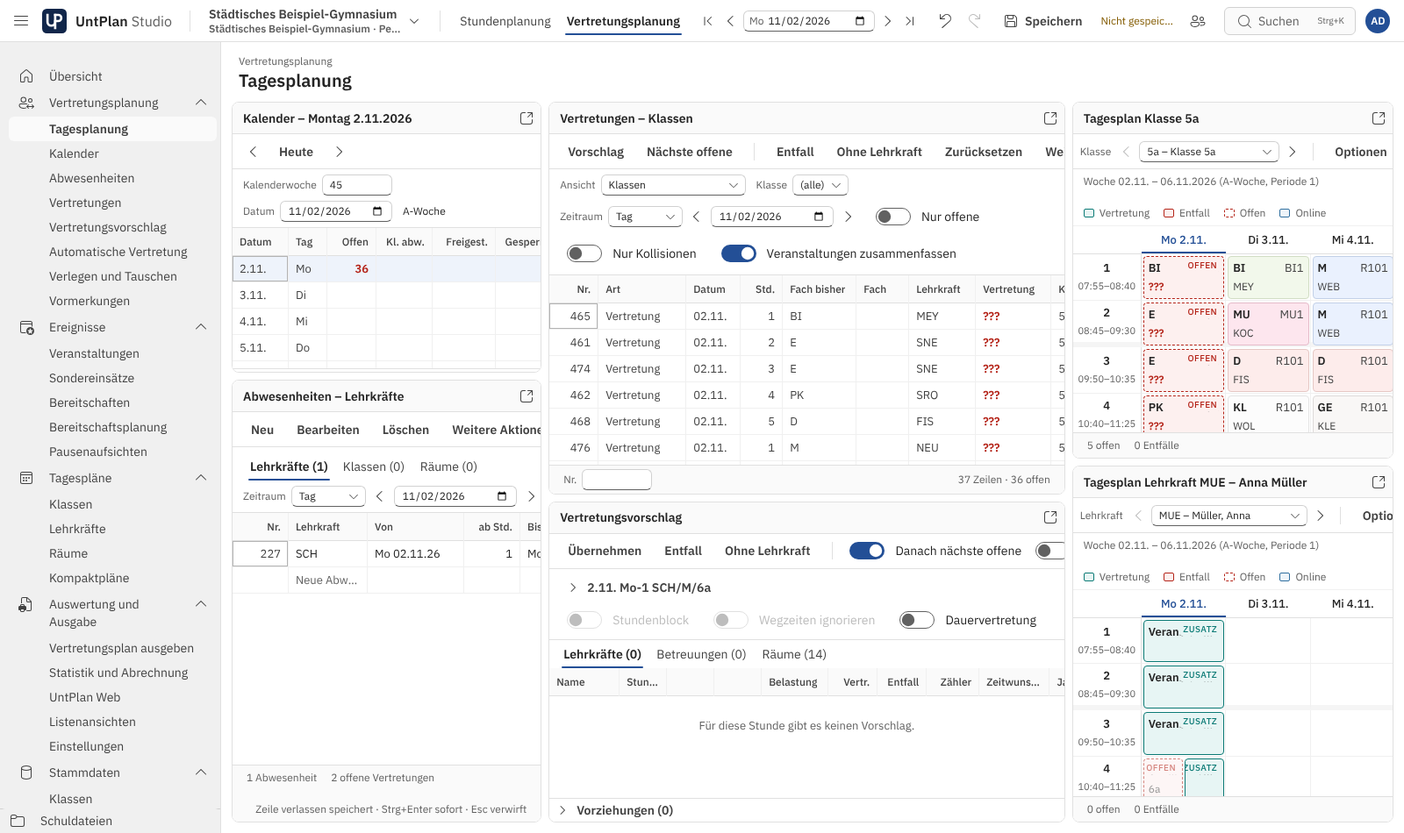
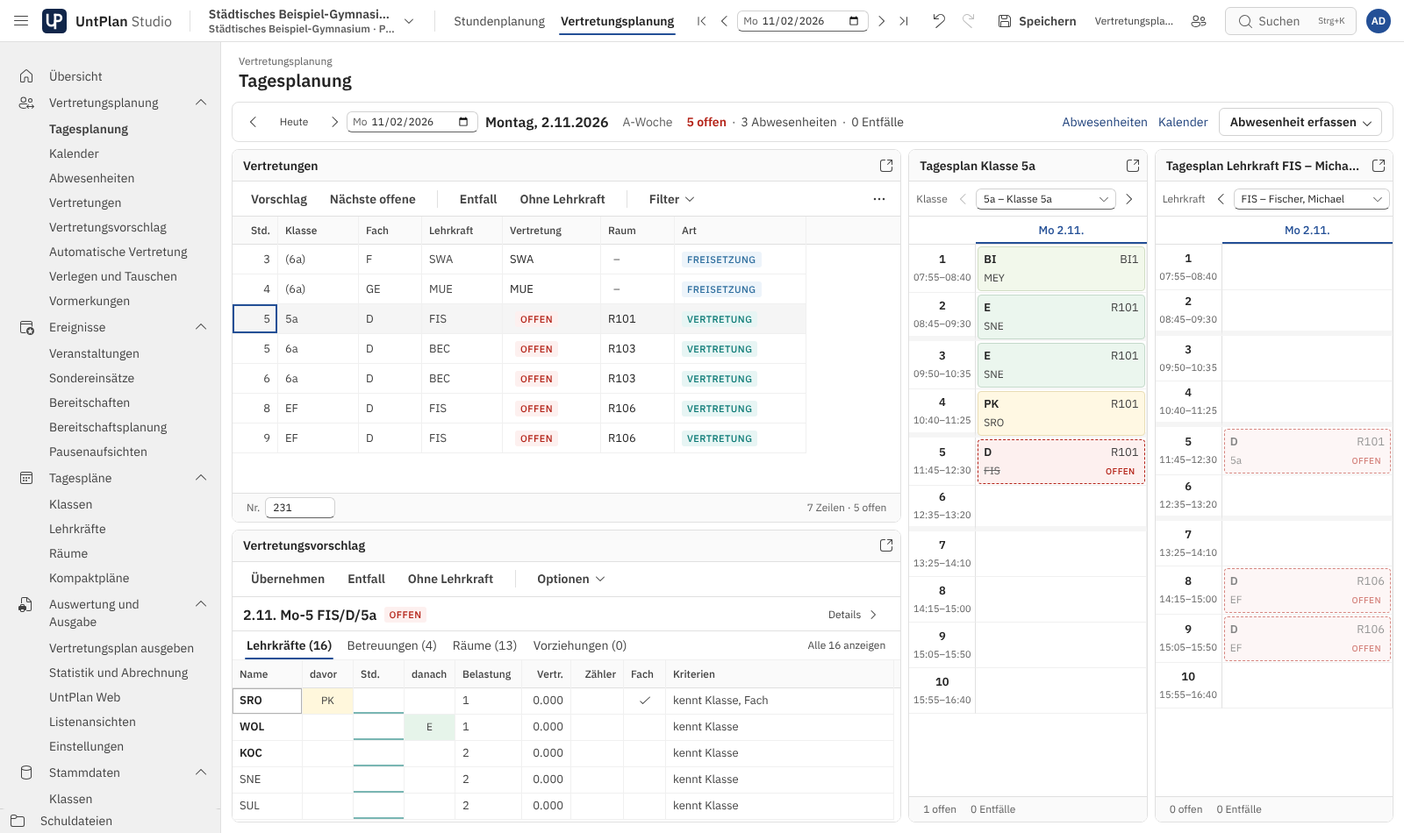
Zwischenstand: Tagesplanung und Web-Stundenplan in Arbeit [skip ci]
Claude-Session: https://claude.ai/code/session_01Qh4Tuihm3YFN8v1UQgn9UW

diff --git a/web/client/src/components/plan/Kachel.tsx b/web/client/src/components/plan/Kachel.tsx
@@ -8,8 +8,8 @@ import LinkRounded from '@mui/icons-material/LinkRounded';
 import EditNoteRounded from '@mui/icons-material/EditNoteRounded';
 import InfoOutlined from '@mui/icons-material/InfoOutlined';
 import type { Karte } from '../../api/types';
-import { artVon, gueltigeFarbe, infoText, istEntfall, istOnline, kachelZeilen, kopfRaeume, plaketten, sichererLink, abwesendSet, statusText, titelText, type Typ, type Plakette } from './logik';
-import { WerteListe, wertText } from './Werte';
+import { artVon, gueltigeFarbe, infoText, istEntfall, istOnline, kachelZeilen, kopfRaeume, plaketten, sichererLink, abwesendSet, statusText, titelText, KACHEL_PLAKETTEN, type Typ, type Plakette } from './logik';
+import { Kuerzel, WerteListe, wertText } from './Werte';
 
 /** Statusbezeichnung: 10–11 px Großbuchstaben in der Statusfarbe, ohne Fläche (keine Pillen). */
 export function PlaketteChip({ p, klein = false }: { p: Plakette; klein?: boolean }) {
@@ -31,19 +31,19 @@ export function FachQuadrat({ farbe, groesse = 8, sx }: { farbe: string | null |
 export function kachelStil(k: Karte, typ: Typ, t: Theme): CSSProperties & Record<string, unknown> {
   const art = artVon(k, typ);
   const papier = t.palette.background.paper;
-  const linie = t.palette.divider;
-  const basis = { backgroundColor: papier, border: `1px solid ${linie}` };
+  const linie = t.palette.kachel.rand;
+  const basis = { backgroundColor: t.palette.kachel.flaeche, border: `1px solid ${linie}` };
   const s = t.palette.status;
   switch (art) {
     case 'entfall': return {
-      backgroundColor: papier, backgroundImage: `repeating-linear-gradient(135deg, ${alpha(s.entfall.main, 0.07)} 0 1px, transparent 1px 6px)`,
-      border: `1px solid ${alpha(s.entfall.main, 0.32)}`, color: t.palette.text.secondary,
+      backgroundColor: papier, backgroundImage: `repeating-linear-gradient(135deg, ${alpha(s.entfall.main, 0.09)} 0 1px, transparent 1px 6px)`,
+      border: `1px solid ${alpha(s.entfall.main, 0.45)}`, color: t.palette.text.secondary,
     };
-    case 'aenderung': return { ...basis, border: `1px solid ${alpha(s.aenderung.main, 0.55)}` };
-    case 'pruefung': return { ...basis, border: `1px solid ${alpha(s.pruefung.main, 0.55)}` };
-    case 'termin': return { ...basis, border: `1px dashed ${alpha(t.palette.text.secondary, 0.6)}` };
-    case 'abwesend': return { ...basis, border: `1px dashed ${alpha(t.palette.text.secondary, 0.6)}`, color: t.palette.text.secondary };
-    case 'buchung': return { ...basis, border: `1px dashed ${alpha(s.frei.main, 0.6)}` };
+    case 'aenderung': return { ...basis, backgroundColor: papier, border: `1px solid ${s.aenderung.main}` };
+    case 'pruefung': return { ...basis, backgroundColor: papier, border: `1px solid ${s.pruefung.main}` };
+    case 'termin': return { ...basis, backgroundColor: papier, border: `1px dashed ${alpha(t.palette.text.secondary, 0.7)}` };
+    case 'abwesend': return { ...basis, backgroundColor: papier, border: `1px dashed ${alpha(t.palette.text.secondary, 0.7)}`, color: t.palette.text.secondary };
+    case 'buchung': return { ...basis, backgroundColor: papier, border: `1px dashed ${s.frei.main}` };
     default: return basis;
   }
 }
@@ -88,11 +88,11 @@ export const Kachel = memo(function Kachel({ k, typ, hoehe = 64, onOpen, gedimmt
   const mittel = !kompakt && hoehe < 74;
   const zeilen = kachelZeilen(k, typ);
   const raeume = kopfRaeume(k, typ);
-  const pl = plaketten(k, typ);
+  const pl = plaketten(k, typ).filter(p => KACHEL_PLAKETTEN.has(p.text));
   const info = infoText(k);
   const online = istOnline(k, typ);
   const durch = entfall ? 'line-through' : 'none';
-  const titel = k.fach ? (k.fachAlt && !entfall ? <><Box component="s" sx={{ color: 'text.disabled', fontWeight: 400, mr: 0.5 }}>{k.fachAlt}</Box><Box component="span" sx={{ color: 'status.aenderung.main', textDecoration: 'underline', textDecorationThickness: '1px', textUnderlineOffset: '3px' }}>{k.fach}</Box></> : k.fach) : (k.text || k.art || '—');
+  const titel = k.fach ? (k.fachAlt && !entfall ? <Box component="span" sx={{ display: 'inline-flex', gap: '3px', alignItems: 'center' }}><Kuerzel art="alt" title={`bisher ${k.fachAlt}`}>{k.fachAlt}</Kuerzel><Kuerzel art="neu" title={`${k.fach} statt ${k.fachAlt}`}>{k.fach}</Kuerzel></Box> : k.fach) : (k.text || k.art || '—');
   const abw = abwesendSet(k);
   const symbole = (
     <>
@@ -117,7 +117,7 @@ export const Kachel = memo(function Kachel({ k, typ, hoehe = 64, onOpen, gedimmt
   );
   const hatSymbole = online || k.hausaufgabeFaellig || info.length > 0;
   const tasten = (e: KeyboardEvent) => { if (e.key === 'Enter' || e.key === ' ') { e.preventDefault(); onOpen?.(k); } };
-  const hover = art === 'entfall' ? {} : { backgroundColor: t.palette.background.default };
+  const hover = art === 'entfall' ? {} : { backgroundColor: t.palette.kachel.hover };
   return (
     <Tooltip title={<KachelInfo k={k} typ={typ} />} placement="right-start" enterDelay={450} enterNextDelay={300} disableInteractive
       slotProps={{ tooltip: { sx: { bgcolor: 'background.paper', color: 'text.primary', border: 1, borderColor: 'divider', boxShadow: '0 8px 24px rgba(21,26,33,.14)', p: 1.5, maxWidth: 360 } }, arrow: { sx: { color: 'background.paper', '&:before': { border: 1, borderColor: 'divider' } } } }}>
@@ -134,12 +134,13 @@ export const Kachel = memo(function Kachel({ k, typ, hoehe = 64, onOpen, gedimmt
           <Typography component="span" noWrap sx={{ fontWeight: 600, fontSize: gross ? 14 : 13, lineHeight: '17px', color: entfall ? 'status.entfall.main' : 'text.primary', textDecoration: durch, minWidth: 0, flex: '0 1 auto' }}>{titel}</Typography>
           {kompakt && zeilen[0] && (
             <Typography component="span" noWrap sx={{ fontSize: 12, color: 'text.secondary', textDecoration: durch, minWidth: 0 }}>
-              <WerteListe werte={zeilen[0].werte} entfall={entfall} mitAlt={false} abwesend={zeilen[0].art === 'klassen' ? abw : undefined} />
+              <WerteListe werte={zeilen[0].werte} entfall={entfall} mitAlt={false} abwesend={zeilen[0].art === 'klassen' ? abw : undefined} offen={k.status === 'offen' && zeilen[0].art === 'lehrer'} />
             </Typography>
           )}
           {raeume.length > 0 && (
             <Typography component="span" noWrap sx={{ ml: 'auto', fontSize: 12, fontWeight: 500, color: 'text.secondary', textDecoration: durch, flex: 'none', maxWidth: '55%', textAlign: 'right' }}>
-              <WerteListe werte={raeume} entfall={entfall} mitAlt={!kompakt} />
+              {!entfall && raeume.every(w => !w.alt && !w.neu) ? <Box component="span" sx={{ display: 'inline-flex', gap: '3px' }}>{raeume.map((w, i) => <Kuerzel key={i}>{w.k}</Kuerzel>)}</Box>
+                : <WerteListe werte={raeume} entfall={entfall} mitAlt={!kompakt} trenner=" " />}
             </Typography>
           )}
         </Stack>
@@ -147,7 +148,7 @@ export const Kachel = memo(function Kachel({ k, typ, hoehe = 64, onOpen, gedimmt
           <Box sx={{ flex: '0 1 auto', minHeight: 0, overflow: 'hidden', pl: k.fach ? '14px' : 0 }}>
             {(mittel ? zeilen.slice(0, 1) : zeilen).map((z, i) => (
               <Typography key={i} component="div" noWrap sx={{ fontSize: 12, lineHeight: '16px', color: z.art === 'mitklassen' ? 'text.disabled' : 'text.secondary', textDecoration: durch }}>
-                <WerteListe werte={z.werte} entfall={entfall} abwesend={z.art === 'klassen' ? abw : undefined} />
+                <WerteListe werte={z.werte} entfall={entfall} abwesend={z.art === 'klassen' ? abw : undefined} offen={k.status === 'offen' && z.art === 'lehrer'} />
               </Typography>
             ))}
           </Box>

diff --git a/web/client/src/components/plan/Werte.tsx b/web/client/src/components/plan/Werte.tsx
@@ -1,37 +1,65 @@
-// Darstellung der Werte einer Stunde (Klassen, Lehrkräfte, Räume): geänderter Wert petrol, ersetzter Wert durchgestrichen davor,
-// hinzugefügter Wert „+R105“, entfernter Wert durchgestrichen, offene Vertretung „???“, abwesende Klasse grau durchgestrichen.
+// Darstellung der Werte einer Stunde (Klassen, Lehrkräfte, Räume) mit Kürzel-Plaketten (Radius 3 px): unveränderte Werte als Text,
+// geänderter Wert als gefüllte Plakette in der Änderungsfarbe, ersetzter Wert davor als graue, durchgestrichene Plakette, hinzugefügter
+// Wert umrandet in der Änderungsfarbe, offene Vertretung als gestrichelte „?“-Plakette, abwesende Klasse grau durchgestrichen.
+// Die Bedeutung steht im Tooltip (title) und in der Legende – auf der Kachel stehen keine Statuswörter.
 import { Box } from '@mui/material';
+import type { ReactNode } from 'react';
 import type { Wert } from '../../api/types';
 import { KEIN_ELEMENT } from './logik';
 
-export function WertAnzeige({ w, entfall = false, mitAlt = true, weg = false, link }: { w: Wert; entfall?: boolean; mitAlt?: boolean; weg?: boolean; link?: (kurz: string) => string | null }) {
-  const a = (kurz: string, inhalt: React.ReactNode) => {
+export type KuerzelArt = 'normal' | 'neu' | 'alt' | 'plus' | 'offen';
+
+/** Kürzel als kleine Plakette (11 px, Radius 3 px). */
+export function Kuerzel({ art = 'normal', children, title }: { art?: KuerzelArt; children: ReactNode; title?: string }) {
+  const stil = {
+    normal: { border: '1px solid', borderColor: 'kachel.rand', color: 'text.secondary', bgcolor: 'background.paper' },
+    neu: { border: '1px solid', borderColor: 'status.aenderung.main', bgcolor: 'status.aenderung.main', color: '#fff' },
+    plus: { border: '1px solid', borderColor: 'status.aenderung.main', color: 'status.aenderung.main', bgcolor: 'background.paper' },
+    alt: { border: '1px solid', borderColor: 'kachel.rand', bgcolor: 'action.hover', color: 'text.disabled', textDecoration: 'line-through' },
+    offen: { border: '1px dashed', borderColor: 'status.aenderung.main', color: 'status.aenderung.main', bgcolor: 'background.paper', minWidth: 18, justifyContent: 'center' },
+  }[art];
+  return (
+    <Box component="span" title={title} sx={{ display: 'inline-flex', alignItems: 'center', height: 16, px: '4px', borderRadius: '3px', fontSize: 11, lineHeight: '14px', fontWeight: 600,
+      letterSpacing: '0.01em', whiteSpace: 'nowrap', verticalAlign: 'middle', boxSizing: 'border-box', fontVariantNumeric: 'tabular-nums', ...stil }}>{children}</Box>
+  );
+}
+
+export function WertAnzeige({ w, entfall = false, mitAlt = true, weg = false, link, offen = false }: {
+  w: Wert; entfall?: boolean; mitAlt?: boolean; weg?: boolean; link?: (kurz: string) => string | null; offen?: boolean;
+}) {
+  const a = (kurz: string, inhalt: ReactNode) => {
     const href = link && kurz && !KEIN_ELEMENT.test(kurz) ? link(kurz) : null;
-    return href ? <Box component="a" href={href} onClick={e => e.stopPropagation()} sx={{ color: 'inherit', textDecorationColor: 'currentColor', textUnderlineOffset: 2, '&:hover': { color: 'primary.main' } }}>{inhalt}</Box> : inhalt;
+    return href ? <Box component="a" href={href} onClick={e => e.stopPropagation()} sx={{ color: 'inherit', textDecoration: 'none', '&:hover': { textDecoration: 'underline' } }}>{inhalt}</Box> : inhalt;
   };
+  const fragezeichen = (t: string) => <Kuerzel art="offen" title={t}>?</Kuerzel>;
   if (entfall) return <span>{w.alt || w.k}</span>;
-  if (weg) return <Box component="s" sx={{ color: 'text.disabled' }}>{w.k}</Box>;
-  if (w.alt && !w.k) return <Box component="s" sx={{ color: 'status.aenderung.main', fontWeight: 600 }}>{a(w.alt, w.alt)}</Box>;
-  if (!w.k && w.neu) return <Box component="span" sx={{ color: 'status.aenderung.main', fontWeight: 600 }}>???</Box>;
-  if (w.alt) return (
-    <Box component="span" sx={{ whiteSpace: 'nowrap' }}>
-      {mitAlt && <Box component="s" sx={{ color: 'text.disabled', fontWeight: 400, mr: 0.5 }}>{a(w.alt, w.alt)}</Box>}
-      <Box component="span" sx={{ color: 'status.aenderung.main', fontWeight: 600, textDecoration: 'underline', textDecorationThickness: '1px', textUnderlineOffset: '3px' }}>{a(w.k, w.k)}</Box>
+  if (weg) return <Box component="s" sx={{ color: 'text.disabled' }} title={`${w.k} abwesend`}>{w.k}</Box>;
+  if (w.alt && !w.k) return (
+    <Box component="span" sx={{ display: 'inline-flex', gap: '3px', alignItems: 'center' }}>
+      <Kuerzel art="alt" title={offen ? `${w.alt} – Vertretung offen` : `${w.alt} entfällt`}>{a(w.alt, w.alt)}</Kuerzel>
+      {offen && fragezeichen(`Vertretung für ${w.alt} offen`)}
     </Box>
   );
-  if (w.neu) return <Box component="span" sx={{ color: 'status.aenderung.main', fontWeight: 600 }}>+{a(w.k, w.k)}</Box>;
+  if (!w.k && w.neu) return fragezeichen('Vertretung offen');
+  if (w.alt) return (
+    <Box component="span" sx={{ display: 'inline-flex', gap: '3px', alignItems: 'center' }}>
+      {mitAlt && <Kuerzel art="alt" title={`bisher ${w.alt}`}>{a(w.alt, w.alt)}</Kuerzel>}
+      <Kuerzel art="neu" title={`${w.k} statt ${w.alt}`}>{a(w.k, w.k)}</Kuerzel>
+    </Box>
+  );
+  if (w.neu) return <Kuerzel art="plus" title={`${w.k} zusätzlich`}>{a(w.k, w.k)}</Kuerzel>;
   return <span>{a(w.k, w.k)}</span>;
 }
 
-export function WerteListe({ werte, entfall, mitAlt = true, abwesend, link, trenner = ', ' }: {
-  werte: Wert[]; entfall?: boolean; mitAlt?: boolean; abwesend?: Set<string>; link?: (kurz: string) => string | null; trenner?: string;
+export function WerteListe({ werte, entfall, mitAlt = true, abwesend, link, trenner = ', ', offen = false }: {
+  werte: Wert[]; entfall?: boolean; mitAlt?: boolean; abwesend?: Set<string>; link?: (kurz: string) => string | null; trenner?: string; offen?: boolean;
 }) {
   return (
     <>
       {werte.map((w, i) => (
         <span key={`${w.k}-${w.alt}-${i}`}>
           {i > 0 && trenner}
-          <WertAnzeige w={w} entfall={entfall} mitAlt={mitAlt} weg={!!abwesend?.has((w.k || '').toLowerCase())} link={link} />
+          <WertAnzeige w={w} entfall={entfall} mitAlt={mitAlt} weg={!!abwesend?.has((w.k || '').toLowerCase())} link={link} offen={offen} />
         </span>
       ))}
     </>

diff --git a/web/client/src/components/plan/logik.ts b/web/client/src/components/plan/logik.ts
@@ -44,17 +44,10 @@ export function statusText(k: Karte) {
   return STATUSTEXT[k.status] ?? '';
 }
 
-/** Kurzbezeichnung einer Änderung: was hat sich geändert (Lehrkraft → „Vertretung“, nur Raum → „Raum“, Fach → „Fach“). */
-export function aenderungsText(k: Karte) {
-  const g = (l: Wert[] | null | undefined) => (l || []).some(w => w.alt || w.neu);
-  if (g(k.lehrer)) return 'Vertretung';
-  if (k.fachAlt) return 'Fach';
-  if (g(k.raeume)) return 'Raum';
-  return 'Änderung';
-}
-
-/** Plaketten der Kachel: kurze Bezeichnung und Ton. */
+/** Plaketten einer Stunde: kurze Bezeichnung und Ton (die Kachel zeigt davon nur die nicht aus Farbe/Linie ablesbaren, siehe KACHEL_PLAKETTEN). */
 export interface Plakette { text: string; ton: 'entfall' | 'aenderung' | 'pruefung' | 'termin' | 'frei' | 'neutral'; hinweis?: string }
+/** Auf der Kachel als Wort gezeigt – alles andere (Entfall, Änderung, offen, vertreten …) liest man an Schraffur, Linie und Kürzel-Plaketten ab. */
+export const KACHEL_PLAKETTEN = new Set(['Prüfung', 'Termin', 'Buchung', 'Vorgemerkt', 'Verlegt', 'Verlegung']);
 export function plaketten(k: Karte, typ: Typ): Plakette[] {
   const p: Plakette[] = [];
   const verlegt = istVerlegung(k) && k.status !== 'klausur';
@@ -69,7 +62,6 @@ export function plaketten(k: Karte, typ: Typ): Plakette[] {
   else if (k.status === 'buchung') p.push({ text: 'Buchung', ton: 'frei' });
   else if (k.status === 'vorgemerkt') p.push({ text: 'Vorgemerkt', ton: 'neutral', hinweis: 'In UntPlanWeb beantragt, von UntPlan noch nicht übernommen' });
   else if (lehrerAbwesend(k, typ)) p.push({ text: 'Vertreten', ton: 'neutral' });
-  else if (!verlegt && k.status === 'geaendert') p.push({ text: aenderungsText(k), ton: 'aenderung' });
   if ((k.abwesendeKlassen || []).length && !istEntfall(k, typ)) p.push({ text: k.abwesendText || 'abwesend', ton: 'neutral', hinweis: `${k.abwesendeKlassen.join(', ')} ${k.abwesendText || 'abwesend'}` });
   return p;
 }

diff --git a/web/client/src/theme.ts b/web/client/src/theme.ts
@@ -15,14 +15,18 @@ export const farben = {
 } as const;
 
 export interface StatusFarbe { main: string; flaeche: string }
+/** Flächen des Stundenplans: Kachel, kräftigere Kachellinie, Kopf/Zeitspalte, Überfahren, Pausenband. */
+export interface KachelFarben { flaeche: string; rand: string; kopf: string; hover: string; pause: string }
 declare module '@mui/material/styles' {
   interface Palette {
     status: { entfall: StatusFarbe; aenderung: StatusFarbe; pruefung: StatusFarbe; termin: StatusFarbe; frei: StatusFarbe; ok: StatusFarbe };
     marine: typeof farben.marine;
+    kachel: KachelFarben;
   }
   interface PaletteOptions {
     status?: Palette['status'];
     marine?: typeof farben.marine;
+    kachel?: KachelFarben;
   }
 }
 
@@ -48,11 +52,12 @@ export const theme = createTheme({
         warning: { main: farben.pruefung },
         success: { main: farben.ok },
         info: { main: farben.frei },
-        background: { default: farben.schiefer[50], paper: '#ffffff' },
+        background: { default: '#eef1f4', paper: '#ffffff' },
         text: { primary: farben.schiefer[800], secondary: farben.schiefer[600], disabled: farben.schiefer[400] },
         divider: farben.schiefer[200],
         action: { hover: alpha(farben.schiefer[500], 0.08), selected: farben.marine[50] },
         status: status(false),
+        kachel: { flaeche: '#f6f8fa', rand: '#c9d1db', kopf: '#f6f8fa', hover: '#edf0f4', pause: '#eef1f4' },
         marine: farben.marine,
       },
     },
@@ -69,6 +74,7 @@ export const theme = createTheme({
         divider: '#2a323d',
         action: { hover: 'rgba(255,255,255,.06)', selected: '#17243a' },
         status: status(true),
+        kachel: { flaeche: '#1b212a', rand: '#3a4452', kopf: '#1a2028', hover: '#232a35', pause: '#11161c' },
         marine: farben.marine,
       },
     },

diff --git a/studio/client/src/module/vertretung/Vorschlag.tsx b/studio/client/src/module/vertretung/Vorschlag.tsx
@@ -22,7 +22,6 @@ const useStile = makeStyles({
   kopfZeile: { display: 'flex', alignItems: 'center', gap: '8px', minWidth: 0 },
   kopfText: { fontWeight: tokens.fontWeightSemibold, fontSize: tokens.fontSizeBase400, whiteSpace: 'nowrap', overflow: 'hidden', textOverflow: 'ellipsis' },
   mehr: { color: tokens.colorNeutralForeground3, fontSize: tokens.fontSizeBase200, whiteSpace: 'nowrap' },
-  klapp: { justifyContent: 'flex-start', fontWeight: tokens.fontWeightSemibold, padding: '2px 4px', minWidth: 0 },
   detailKnopf: { marginLeft: 'auto', minWidth: 0, flexShrink: 0 },
   details: { fontSize: tokens.fontSizeBase200, color: tokens.colorNeutralForeground2, padding: '2px 0 2px 0' },
   reiterZeile: { display: 'flex', alignItems: 'center', gap: '8px', padding: '0 8px', borderBottom: `1px solid ${tokens.colorNeutralStroke3}` },

diff --git a/design/DESIGN.md b/design/DESIGN.md
@@ -13,7 +13,8 @@ Gestaltung anderer Stundenplanprogramme.
   keine dunkle Seitenleiste mit Symbolspalte. Vorbild sind nüchterne Fachanwendungen (Verwaltung, Finanzen, ERP).
 * **Keine Effekte um der Effekte willen:** keine Farbverläufe, kein Glas/Blur, keine Emojis, keine Illustrationen,
   keine „Hero“-Flächen, keine verspielten Animationen. Übergänge höchstens 120 ms (Farbe/Deckkraft).
-* **Klare Kanten:** Radius 6 px (Steuerelemente, Karten), 4 px (Plaketten, Stundenkacheln), 8 px (Dialoge).
+* **Klare Kanten:** Radius 6 px (Steuerelemente), 8 px (Karten, Dialoge), 4 px (Rasterrahmen), 3 px (Plaketten,
+  Stundenkacheln). Keine Pillenform für Knöpfe, Felder oder Plaketten.
   1-px-Linien statt Schatten; Schatten nur für schwebende Ebenen (Menüs, Dialoge).
 * **Typografie trägt die Hierarchie**, nicht Farbe: IBM Plex Sans 400/500/600, Ziffern tabellarisch
   (`font-variant-numeric: tabular-nums`) in Tabellen, Zeiten und Rastern.
@@ -38,10 +39,10 @@ Grundwerte in `design/tokens.css` (Präfix `--up-`). Marke **Marine** `#234f96` 
 
 | Status | Farbe | Darstellung |
 |---|---|---|
-| Entfall | `--up-entfall` #b42318 | Kachel schraffiert (45°, 1 px, 8 % Deckkraft), Inhalt durchgestrichen, Plakette „Entfall“ |
-| Vertretung / Änderung / Raumwechsel | `--up-aenderung` #0b7a75 | 1,5-px-Rahmen in Petrol, geänderter Wert petrolfarben unterstrichen, alter Wert durchgestrichen in der Plakette |
-| Prüfung / Klausur | `--up-pruefung` #a15c07 | Plakette „Prüfung“, Fläche hell-bernstein |
-| Veranstaltung / Termin | `--up-termin` #5a4fb3 | Fläche hell-violett, gestrichelter Rahmen |
+| Entfall | `--up-entfall` #b42318 | Kachel fast weiß, fein schraffiert (45°, 1 px, 7 % Deckkraft), Fach rot und durchgestrichen, Plakette „Entfall“ |
+| Vertretung / Änderung / Raumwechsel | `--up-aenderung` #0b7a75 | 1-px-Linie in Petrol, geänderter Wert petrolfarben dünn unterstrichen, alter Wert grau durchgestrichen davor, Plakette „Vertretung“, „Raum“ bzw. „Fach“ |
+| Prüfung / Klausur | `--up-pruefung` #a15c07 | 1-px-Linie in Bernstein, Plakette „Prüfung“ |
+| Veranstaltung / Termin | `--up-termin` #5a4fb3 | weiße Kachel mit gestrichelter neutraler Linie, Plakette „Termin“ |
 | Ferien / unterrichtsfrei | `--up-frei` #2f6f9f | ganzflächig hellblau mit Name und Zeitraum |
 
 Dunkelmodus über `:root[data-thema="dunkel"]` bzw. `data-thema="auto"`; nur die Rollen-Variablen wechseln.
@@ -67,14 +68,26 @@ iOS verwendet die Systemschrift (SF Pro) – das ist dort der Standard und wirkt
 
 ## 5. Stundenplan-Darstellung (gemeinsam für alle Oberflächen)
 
-* **Raster:** weiße Fläche, Spaltenköpfe „Mo 19.10.“ (Wochentag 500, Datum 400, heute: Marine-Text und 2-px-Linie
-  unter dem Kopf). Zeitspalte links schmal: Stundennummer 13 px/600, darunter Beginn–Ende 11 px in `--up-text-3`.
-  Zeilentrenner 1 px `--up-linie`; Pausen als 6–8 px hohe, leicht graue Bänder ohne Text.
-* **Stundenkachel:** Radius 4 px, Innenabstand 4–6 px, Hintergrund = Fachfarbe auf 14 % Deckkraft über Weiß,
-  **kein farbiger Seitenbalken**. Kopfzeile: Fachkürzel 13 px/600 links, Raum rechts (tabellarische Ziffern).
-  Zweite Zeile: Lehrkraft bzw. Klasse 12 px `--up-text-2`. Ohne Fachfarbe: `--up-schiefer-50` mit 1-px-Rand.
-* **Status** wie in Abschnitt 2; Plaketten oben rechts in der Kachel, 10–11 px Großbuchstaben, Radius 3 px.
-* **Jetzt-Linie:** 1 px Marine-600 mit kleinem Kreis am Zeitspaltenrand.
+Leitbild: nüchterner Fachkalender – gerade Linien, weiße Flächen, Farbe nur als Information, nie als Fläche.
+
+* **Raster:** weiße Fläche in einem Rahmen mit Radius 4 px, gerade 1-px-Linien (`--up-linie`). Spaltenköpfe linksbündig
+  „Mo 19.10.“ (Wochentag 600, Datum 400 `--up-text-2`); heute: Marine-Text, 2-px-Marine-Linie oben am Kopf und sehr
+  leichte Marine-Tönung (≈ 3 %) der Spalte. Zeitspalte links schmal mit Trennlinie: Stundennummer 13 px/600, darunter
+  Beginn und Ende 11 px in `--up-text-2`, tabellarische Ziffern. Pausen als schmale graue Bänder (`--up-schiefer-50`)
+  ohne Text. Ganztägige Termine im Tageskopf als gestrichelt umrandete Zeile mit Plakette „Termin“.
+* **Stundenkachel:** weiße Fläche, 1-px-Linie `--up-linie`, Radius 3 px, Innenabstand 5–6 px oben/unten, 8 px seitlich;
+  Überfahren: Fläche `--up-schiefer-50`. **Keine Fachfarbe als Fläche, kein farbiger Seitenbalken:** die Fachfarbe steht
+  nur als 8-px-Quadrat vor dem Fachkürzel. Kopfzeile: Quadrat, Fachkürzel 13 px/600 `--up-text`, Raum rechtsbündig
+  12 px/500 `--up-text-2` (tabellarische Ziffern). Zweite Zeile (unter dem Kürzel eingerückt): Lehrkraft bzw. Klasse
+  12 px `--up-text-2`.
+* **Status** wie in Abschnitt 2; Plaketten in der Kachel unten links als reiner Text: 10–11 px/600 Großbuchstaben,
+  Laufweite +0,04 em, in der Statusfarbe, **ohne Fläche**. „Online“ ebenso, mit Link-Symbol.
+* **Legende** über dem Raster als Text mit kleinen Mustern (10 px) und Anzahl – keine Pillen.
+* **Werkzeugleiste** flach (Trennlinie unten, keine schwebende Karte); Woche/Tag und die Tagauswahl der Tagesansicht als
+  Segmentschalter.
+* **Stundendetails:** weißer Kopf mit Trennlinie (keine Farbfläche): Fachquadrat und Fach 20 px/600, Plaketten, darunter
+  die Angaben als Schlüssel/Wert-Liste (Datum, Zeit, Klasse, Lehrkraft, Raum).
+* **Jetzt-Linie:** 1 px Marine-600 mit kleinem Kreis am Zeitspaltenrand, Uhrzeit als kleines Marine-Schild (Radius 2 px).
 * **Auswahl/Fokus:** 2-px-Ring Marine-500 außen.
 
 ## 6. Bausteine
@@ -85,7 +98,8 @@ iOS verwendet die Systemschrift (SF Pro) – das ist dort der Standard und wirkt
 * **Tabellen:** Kopf 12 px/500 `--up-text-2` auf `--up-flaeche-2`, Zeilen 32 px (dicht 28 px), Zeilenwechsel ohne
   Zebrastreifen, Hover `--up-flaeche-hover`, Auswahl `--up-primaer-flaeche`.
 * **Segmentschalter** für Ansichtswechsel (Tag/Woche, Klasse/Lehrkraft/Raum).
-* **Plaketten:** 11 px/500, Radius 3 px, Fläche der Statusfarbe, Text der Statusfarbe.
+* **Plaketten:** 11 px/600, Radius 3 px, helle Fläche der Statusfarbe, Text der Statusfarbe; in Stundenkacheln nur Text
+  (Abschnitt 5).
 * **Leere Zustände:** ein Linien-Symbol 24 px in `--up-text-3`, ein Satz, optional ein Knopf. Keine Illustrationen.
 
 ## 7. Aufbau je Produkt
@@ -93,7 +107,7 @@ iOS verwendet die Systemschrift (SF Pro) – das ist dort der Standard und wirkt
 | Produkt | Navigation |
 |---|---|
 | **Studio** | React 18 + TypeScript + Fluent UI v9 (`studio/client`), Fluent-Thema aus der Marken-Rampe Marine `#234f96` (hell, dunkel, automatisch), IBM Plex Sans, Status- und Fachfarben aus diesen Tokens. Seitenbasierte Web-Anwendung (eine Seite je Aufgabe, Adresse in der URL, Zurück-Taste funktioniert). Helle Seitenleiste (Fluent Nav) mit Linien-Symbolen vor den Bereichen, Seiten als Text; in schmalen Fenstern überlagernd. Kopfleiste mit Wortmarke, Schuldatei, Modus, Rückgängig/Speichern, Suche (Strg+K), Konto. Jede Seite: Seitenkopf (Bereich, Titel 20 px, Aktionen rechts), Werkzeugleiste mit Textknöpfen, Filterleiste, Inhalt, Fußzeile; Details in einem Nebenbereich rechts; Bearbeiten in Dialogen. Arbeitsplätze, die mehrere Inhalte gleichzeitig brauchen (Tagesplanung, manuelles Planen, Verlegen und Tauschen), sind fest gestaltete Seiten mit verschiebbaren Trennern – keine frei schwebenden Fenster. Keine Verläufe, keine Symbolkacheln. |
-| **Web** | React 18 + TypeScript + MUI v7 (`web/client`), Thema aus diesen Tokens (Marine als Primärfarbe, Statusfarben, kein Orange). Klares Portal: Pillen-Knöpfe, runde Felder, weiche Karten mit Radius 12–14 px, Tabellen mit feinen Linien, Bearbeiten in Dialogen. Seitenleiste mit Linien-Symbolen vor den Bereichen (Unterpunkte als Text), abgerundete aktive Zeile, einklappbar zur Symbolleiste; mobil als Schublade. Eigener Stundenplan (Abschnitt 5: Zeitachse, Jetzt-Linie, Status-Legende) und eigene Klassenbuch-Seiten; Online-Unterricht nur als Schild mit Link (Umschalten in Studio/App). Keine Namen, Symbole oder Grafiken anderer Produkte. |
+| **Web** | React 18 + TypeScript + MUI v7 (`web/client`), Thema aus diesen Tokens (Marine als Primärfarbe, Statusfarben, kein Orange). Sachliches Portal: Knöpfe und Felder Radius 6 px (Höhe 32 px), Karten 8 px, Segmentschalter mit 1-px-Rahmen, Tabellen mit feinen Linien, Bearbeiten in Dialogen. Seitenleiste mit Linien-Symbolen vor den Bereichen (Unterpunkte als Text), leicht abgerundete aktive Zeile, einklappbar zur Symbolleiste; mobil als Schublade. Eigener Stundenplan (Abschnitt 5: Zeitachse, Jetzt-Linie, Status-Legende) und eigene Klassenbuch-Seiten; Online-Unterricht nur als Schild mit Link (Umschalten in Studio/App). Keine Namen, Symbole oder Grafiken anderer Produkte. |
 | **Mobile (PWA)** | Untere Leiste *Heute · Plan · Postfach · Mehr* (Linien-Symbol + Beschriftung, das ist auf Telefonen Standard), große Seitentitel, Listen statt Karten-Kacheln, keine Logo-Kachel. |
 | **iOS** (UntPlan Next, `ios/`) | Tab-Leiste des Systems *Heute · Plan · Postfach · Suche* (Suche mit der Rolle „Suche“), Profil und Einstellungen als Blatt hinter dem Avatar oben rechts. Akzentfarbe **Petrol** `#0b5d57` (heller `#138a80`, dunkel `#3fb3a6`); Statusfarben bewusst weit davon entfernt: Änderung/Vertretung Violett `#6d4fc2`, Termin Magenta `#a3347c`, Prüfung Bernstein, Entfall Rot, Ferien Blau. **Liquid Glass** (iOS 26, Xcode 26) nur auf der Bedienebene über dem Inhalt – Tab-Leiste (klappt beim Rollen ein), schwebende Wochenleiste, Werkzeug- und Filterknöpfe, Bedienknöpfe der Jetzt-Karte, Knöpfe über dem Kopf der Stundenansicht; hervorgehobene Knöpfe Petrol-Glas. Inhalte (Kacheln, Karten, Listen) deckend; iOS 18 erhält dieselbe Form mit Material. Plan: Tag als Liste großer Kacheln (Fach und Raum groß, Änderungen mit gefüllter Plakette, Rahmen und Tönung, Pausen/Freistunden kompakt), waagrecht wischen = Tag, Wochenübersicht als Matrix, wahlweise Zeitachse. Systemschrift SF Pro mit Dynamic Type, Abstände im 8-pt-Raster. Die frühere App „UntPlan für iOS“ liegt nur noch als Archiv in `archiv/ios-alt/`. |
 

diff --git a/docs/HANDBUCH.md b/docs/HANDBUCH.md
@@ -397,7 +397,24 @@ Schalten Sie in den Modus **Vertretungsplanung**. Das **Planungsdatum** steht in
 **Strg+Bild↑ / Strg+Bild↓** blättern zum vorherigen bzw. nächsten Unterrichtstag, die Doppelpfeile um eine Woche.
 Mit dem Datum wechselt automatisch die gültige Periode.
 
-*Vertretungsplanung → Tagesplanung* stellt Kalender, Abwesenheiten, Vertretungen, Vorschlag und Tagespläne zusammen dar.
+### Tagesplanung
+
+*Vertretungsplanung → Tagesplanung* ist der Arbeitsplatz für den Planungstag:
+
+- **Tageskopf:** Tag blättern (auch **Strg+Bild↑ / Strg+Bild↓**), Heute, Datum wählen, Wochentyp und eine Kurzübersicht
+  (offene Vertretungen, Abwesenheiten, Entfälle, Kollisionen, Tagestexte). **Abwesenheit erfassen** legt eine
+  Abwesenheit für eine Lehrkraft, Klasse oder einen Raum direkt an; die Verweise *Abwesenheiten* und *Kalender* führen
+  zu den eigenen Seiten (Wochenübersicht, Tagestexte, Kalendertag, alle Abwesenheiten).
+- **Vertretungen:** Std., Klasse, Fach, Lehrkraft, Vertretung, Raum und Art; offene Stunden tragen die Plakette
+  **Offen**. Sichtbar sind *Vorschlag*, *Nächste offene* (F3), *Entfall* (-) und *Ohne Lehrkraft* (+); **Filter**
+  enthält *Nur offene*, *Nur Kollisionen*, *Veranstaltungen zusammenfassen*, Ansicht, Klasse bzw. Lehrkraft und
+  Zeitraum; im Menü **…** stehen Zurücksetzen (Entf), Raum zuordnen, Teilen, Vormerken, Fixieren, Nicht drucken,
+  Automatische Vertretung, Neu berechnen, Löschen und die Darstellung (auf Wunsch alle Spalten der Listenansicht).
+- **Vertretungsvorschlag** zur gewählten Zeile: zuerst die fünf besten Lehrkräfte, *Alle anzeigen* klappt den Rest auf;
+  Reiter Betreuungen, Räume und Vorziehungen. Schalter wie *Stundenblock*, *Dauervertretung* oder *Danach nächste
+  offene* stehen unter **Optionen**.
+- **Tagespläne** der Klasse und der Lehrkraft der gewählten Vertretung, als Tagesansicht (*Optionen → Nur Planungstag*
+  schaltet auf die Woche um); Verlegen und Tauschen per Drag & Drop wie in den Tagesplänen.
 
 ### Kalender und Nachrichten zum Tag
 

diff --git a/studio/README.md b/studio/README.md
@@ -18,7 +18,8 @@ Die Oberfläche ist eine React-Anwendung (TypeScript, Fluent UI v9) in `studio/c
 
 * **Seiten statt Fenster:** Jede Aufgabe ist eine Seite mit eigener Adresse (Lesezeichen, Zurück-Taste des Browsers).
   Aufgaben, die mehrere Inhalte gleichzeitig brauchen, sind feste **Arbeitsplätze** – *Manuell planen* (Unterricht und
-  Klassenplan), *Tagesplanung* der Vertretung (Kalender, Abwesenheiten, Vertretungen, Vorschlag, Tagespläne),
+  Klassenplan), *Tagesplanung* der Vertretung (Tageskopf, Vertretungen, Vorschlag, Tagespläne von Klasse und Lehrkraft; Kalender und
+  Abwesenheiten auf eigenen Seiten),
   *Verlegen und Tauschen*. Inhalte, die aus einer Seite heraus geöffnet werden (z. B. der Unterricht zu einem Plan),
   erscheinen rechts daneben; „Öffnen“ macht daraus eine eigene Seite.
 * **Navigation** links (in schmalen Fenstern über den Menüknopf): *Stammdaten, Unterricht, Planung, Stundenpläne, Oberstufe, Auswertung, Ausgabe,
